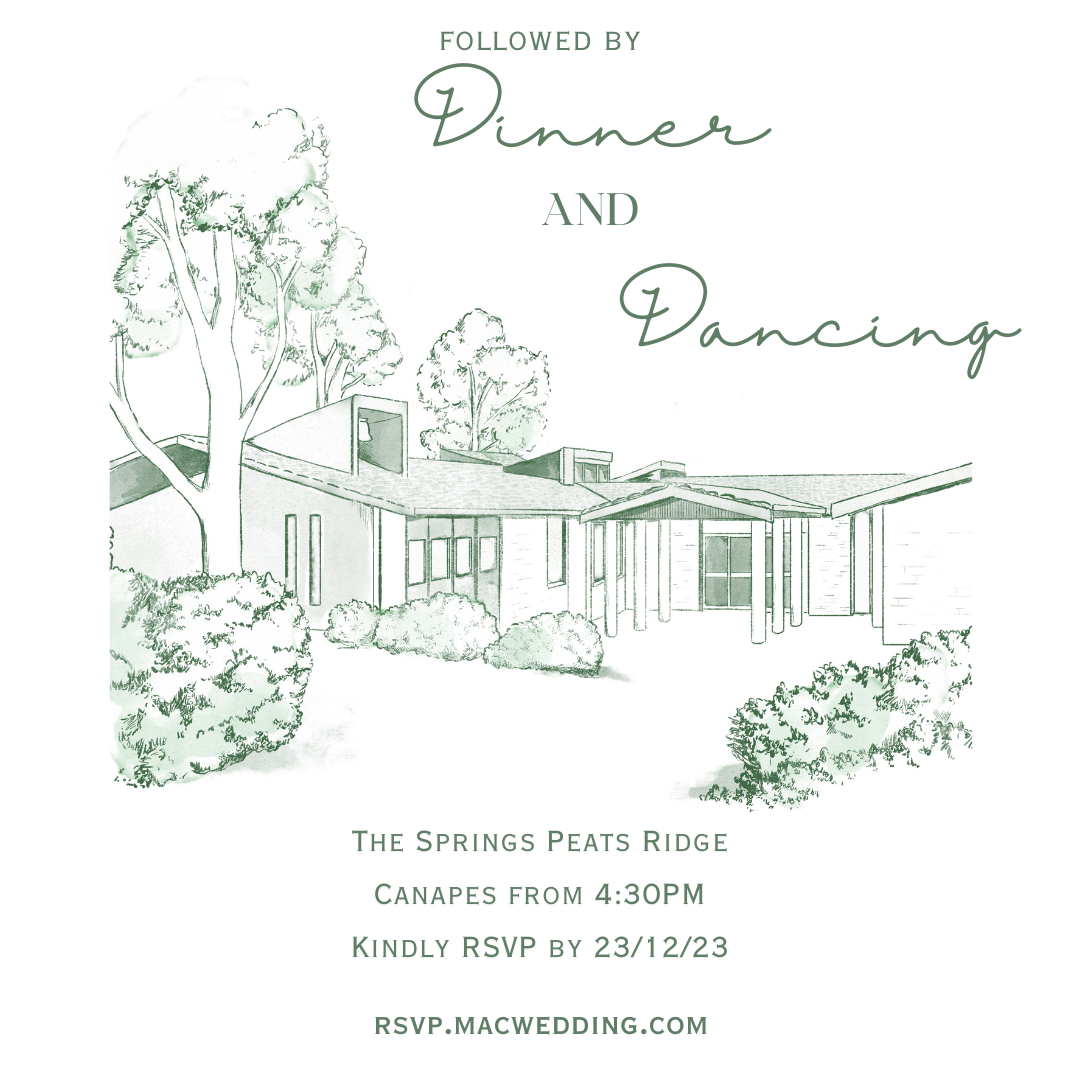
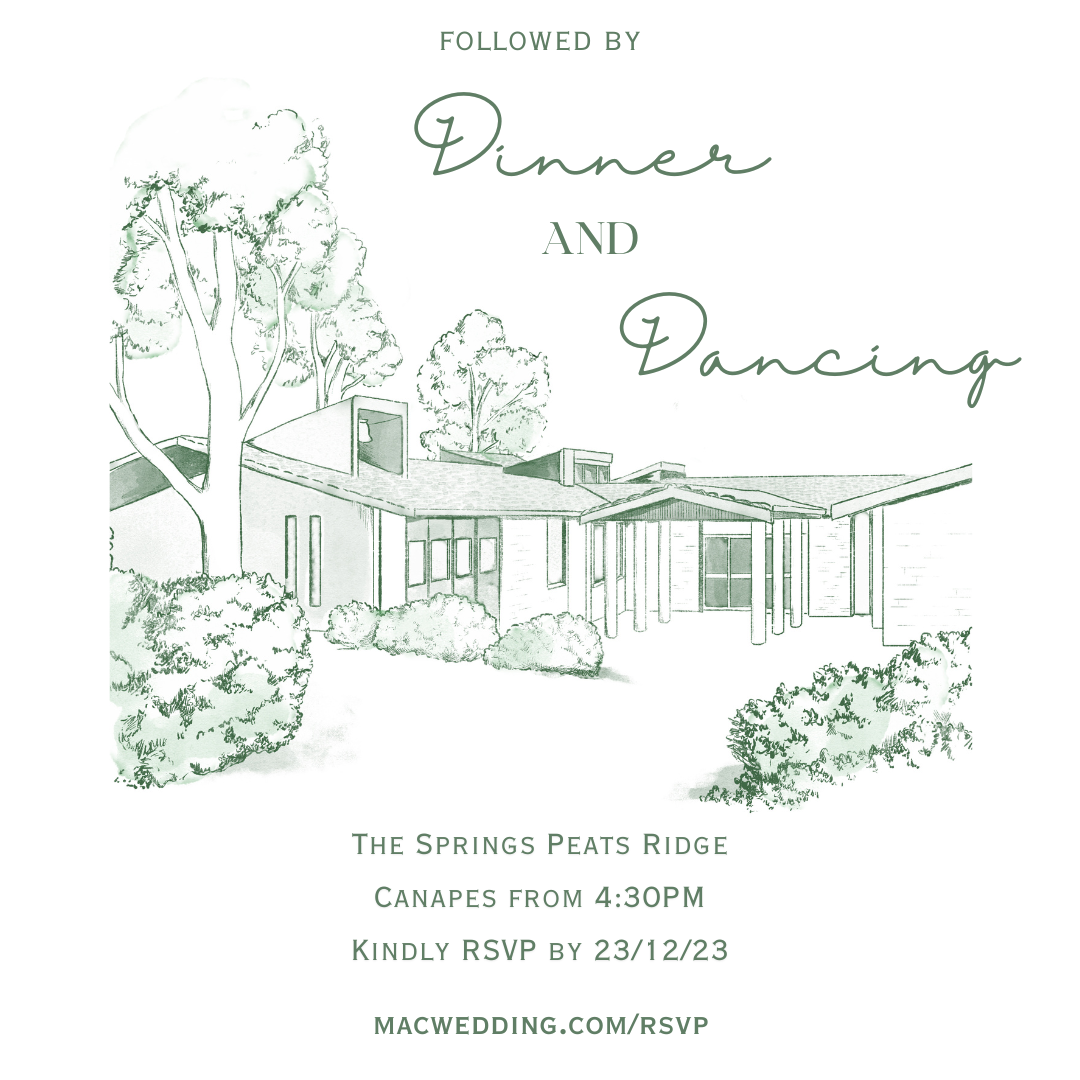
Minor adjustments

diff --git a/404.html b/404.html
@@ -5,6 +5,7 @@ permalink: /404.html
 ---
 
 <div class="text-center">
+  <br/>
   <h1>Whoops, this page doesn't exist.</h1>
   <br/>
 </div>

diff --git a/README.md b/README.md
@@ -1,237 +1,3 @@
-# Beautiful Jekyll
+# Wedding Website
 
-[![Gem Version](https://badge.fury.io/rb/beautiful-jekyll-theme.svg)](https://badge.fury.io/rb/beautiful-jekyll-theme)
-
-> By [Dean Attali](https://deanattali.com) &middot; [Demo](https://beautifuljekyll.com/)
-
-**Beautiful Jekyll** is a ready-to-use template to help you create a beautiful website quickly. Perfect for personal sites, blogs, or simple project websites.  [Check out a demo](https://beautifuljekyll.com) of what you'll get after just two minutes.  You can also look at [my personal website](https://deanattali.com) or [my consulting website](https://attalitech.com) to see it in use, or see [examples of websites](http://beautifuljekyll.com/examples) other people created using this theme.
-
-**If you enjoy Beautiful Jekyll, please consider [supporting me](https://github.com/sponsors/daattali). You'll also gain access to office hours and more features! ❤**
-
-## Table of contents
-
-- [Features](#features)
-- [Sponsors 🏆](#sponsors)
-- [**Build your website in 3 steps**](#build-your-website-in-3-steps)
-- [Plans](#plans)
-- [Add your own content](#add-your-own-content)
-- [Customizing parameters for each page](#customizing-parameters-for-each-page)
-- [Supported parameters](#supported-parameters)
-- [Featured users (success stories!)](#featured-users-success-stories)
-- [Next steps](#next-steps)
-- [Getting help](#getting-help)
-- [Credits and contributions](#contributions)
-
-# Features
-
-__Check out [*What's New?*](https://beautifuljekyll.com/updates/) to see the latest features!__
-
-- **SIMPLE**: The primary goal of Beautiful Jekyll is to allow literally *anyone* to create a website in a few minutes.
-- **Modern**: Uses the latest best practices and technologies to achieve nearly perfect scores on Google Chrome's Audit.
-- **Mobile-first**: Designed to look great on both large-screen and small-screen (mobile) devices.
-- **Highly customizable**: Many personalization settings such as changing the background colour/image, adding a logo.
-- **Flexible usage**: Use Beautiful Jekyll directly on GitHub or via a Ruby gem - choose the best [development method](#build-your-website-in-3-steps) for you.
-- **Battle-tested**: By using Beautiful Jekyll, you'll be joining 50,000+ users enjoying this theme since 2015.
-- **SEO and social media support**: Customize how your site looks on Google and when shared on social media.
-- **Comments support**: Add comments to any page using either [Disqus](https://disqus.com/), [Facebook comments](https://developers.facebook.com/docs/plugins/comments), [Utterances](https://utteranc.es/), [Staticman](https://staticman.net), [giscus](https://giscus.app), or [CommentBox](https://commentbox.io/).
-- **Tags**: Any blog post can be tagged with keywords, and an index page is automatically generated.
-- **Analytics**: Easily integrate Google Analytics, or other analytics platforms, to track visits to your website.
-- **Search**: Let users easily find any page using a Search button in the navigation bar.
-- **Photos support**: Any page can have a full-width cover photo and thumbnail.
-- **RSS**: An RSS feed is automatically created, so you can even host a podcast easily with Beautiful Jekyll.
-
-<h2 id="sponsors">Sponsors 🏆</h2>
-
-Developing and maintaining Beautiful Jekyll takes a lot of time and effort - thank you to anyone who helps fund this effort!
-
-- [DoFollow](https://dofollow.co.uk/)
-- [\_hyp3ri0n](https://hyperiongray.com)
-- [Varna Sri Raman](https://about.me/varna)
-
-**[Become a sponsor for Beautiful Jekyll and unlock new features\!](https://github.com/sponsors/daattali/sponsorships?tier_id=39856)**
-
-# Build your website in 3 steps
-
-There are a few different ways to build a website using Beautiful Jekyll, and this document will go through the simplest one: using a fork on GitHub. For most people (including myself!), this easy method is the recommended one.
-
-Even if you choose to use one of the [advanced installation methods](https://beautifuljekyll.com/getstarted/#install-steps-hard), I still suggest you read through the easy method first.
-
-## The easy way (recommended!)
-
-Getting started is *literally* as easy as 1-2-3 :smile:
-
-Scroll down to see the steps involved, but here is a 30-second video just as a reference as you work through the steps. If you don't already have a [GitHub account](https://github.com), you'll need to sign up.
-
-![Installation steps](https://beautifuljekyll.com/assets/img/install-steps.gif)
-
-### 1. Fork this project
-
-Click on the __*Fork*__ button at the top right corner of this page. Forking means that you're copying this entire project and all its files into your account. Do not click on the __*Create fork*__ button on the next page yet.
-
-### 2. Rename the repository to `YOURUSERNAME.github.io`
-
-You'll see the word "repository" used a lot in GitHub - it simply means "project". Under __*Repository name*__ you should see the name `beautiful-jekyll`, this is where you need to rename your project to `YOURUSERNAME.github.io` (replace `YOURUSERNAME` with your GitHub user name). It's important to use this exact name so that GitHub will recognize it and automatically create a website for this project.   
-
-> Tip: If you want to use a different URL for your website, check out the [FAQ](https://beautifuljekyll.com/faq/#custom-domain)
- 
-### 3. Customize your website settings
-
-Edit the `_config.yml` file to change any settings you want. To edit the file, first click on it to view the file, and on the next page click on the pencil icon to edit it (watch the video tutorial above if you're confused).  The settings in the file are self-explanatory and there are comments inside the file to help you understand what each setting does. Any line that begins with a hashtag (`#`) is a comment, and the other lines are actual settings. After changing the settings, click the green __*Commit changes*__ button to save these edits.
-
-> Note: In the video above, only one setting in the `_config.yml` file is edited, but you should go through the rest of the settings as well.
-
-### 4. Congratulations! You have a website!
-
-If you named your project correctly and made an edit to the config file, your website should be ready in a minute or two at `https://YOURUSERNAME.github.io`. Every time you make a change to any file, your website will get rebuilt and should be updated in about a minute or so. Your website will be initialized with several sample blog posts and a couple other pages.
-
-## The harder way (for advanced users)
-
-The instructions above explain how to use Beautiful Jekyll in the easiest way: by forking on GitHub. There are more [advanced installation methods](https://beautifuljekyll.com/getstarted/#install-steps-hard) that include either using GitHub Pages with remote themes, or using Ruby gems. They provide you with more control, but are only intended for advanced users.
-
-> Note: Beautiful Jekyll was primarily designed to be used as a GitHub theme, so you will not get any support if you use this theme via Ruby gems. 
-
-# Plans
-
-Beautiful Jekyll is, and always will be, free. But if you want to remove the Beautiful Jekyll ad from your website, use a Dark Mode skin, access office hours, or simply support the development efforts, [check out the different plans](https://beautifuljekyll.com/plans).
-
-# Add your own content
-
-To add pages to your site, you can either write a markdown file (`.md`) or you can write an HTML file. It's much easier to write markdown than HTML, so that's the recommended approach ([here's a great tutorial](https://markdowntutorial.com/) if you need to learn markdown in 5 minutes).
-
-To see an example of a markdown file, click on any file that ends in `.md`, for example [`aboutme.md`](./aboutme.md). On that page you can see some nicely formatted text (there's a word in bold, a link, a few bullet points), and if you click on the pencil icon to edit the file, you'll see the markdown code that generated the pretty text. Very easy! 
-
-In contrast, look at [`tags.html`](./tags.html). That's how your write HTML - not as pretty. So stick with markdown if you don't know HTML.
-
-Any markdown or HTML file that you create will be available on your website under `https://<yourusername>.github.io/<pagename>`. For example, if you create a file `about.md` (or `about.html`) then it'll exist at `https://<yourusername>.github.io/about`.
-
-Files you create inside the [`_posts`](./_posts) directory will be treated as blog entries. You can look at the existing files there to get an idea of how to write blog posts. Note the format of the blog post files - they must follow the naming convention of `YEAR-MONTH-DAY-title.md`. After you successfully add your own post, you can delete the existing files inside [`_posts`](./_posts) to remove the sample posts, as those are just demo posts to help you learn.
-
-# Customizing parameters for each page
-
-**One last important thing**: In order to have your new pages use this template and not just be plain HTML pages, **you must add [YAML front matter](https://jekyllrb.com/docs/front-matter/) to the top of each page**:
-
-
-```
----
----
-```
-
-This is where you'll be able to give each page some extra parameters (such as a title, a subtitle, an image, etc - [below is a list of all parameters](#supported-parameters)). Add any parameters you want between these two dashed lines, for example:
-
-```
----
-title: Contact me
-subtitle: Here you'll find all the ways to get in touch with me
----
-```
-
-If you don't want to use any parameters on a page, you still need to use the two dashed lines. If you don't, then your file will be shown as-is without the Beautiful Jekyll template.
-
-You can look at the top of [`aboutme.md`](https://raw.githubusercontent.com/daattali/beautiful-jekyll/master/aboutme.md) as an example.
-
-**Important takeaway: ALWAYS add the YAML front matter, which is two lines of three dashes, to EVERY page. If you have any parameters, they go between the two lines.**
-
-# Supported parameters
-
-Below is a list of the parameters that Beautiful Jekyll supports (any of these can be added to the YAML front matter of any page). Remember to also look in the `_config.yml` file to see additional site-wide settings.
-
-## Main parameters
-
-These are the basic YAML parameters that you are most likely to use on most pages.
-
-Parameter   | Description
------------ | -----------
-title       | Page or blog post title
-subtitle    | Short description of page or blog post that goes under the title
-tags        | List of tags to categorize the post. Separate the tags with commas and place them inside square brackets. Example: `[personal, analysis, finance]`
-cover-img   | Include a large full-width image at the top of the page. You can either provide the path to a single image (eg. `"/path/to/img"`) , or a list of images to cycle through (eg. `["/path/img1", "/path/img2"]`). If you want to add a caption to an image, then you must use the list notation (use `[]` even if you have only one image), and each image should be provided as `"/path/to/img" : "Caption of image"`.
-thumbnail-img | For blog posts, if you want to add a thumbnail that will show up in the feed, use `thumbnail-img: /path/to/image`. If no thumbnail is provided, then `cover-img` will be used as the thumbnail. You can use `thumbnail-img: ""` to disable a thumbnail.
-comments    | If you want do add comments to a specific page, use `comments: true`. Comments only work if you enable one of the comments providers (Facebook, disqus, staticman, utterances, giscus, CommentBox) in `_config.yml` file. Comments are automatically enabled on blog posts but not on other pages; to turn comments off for a specific post, use `comments: false`.
-
-## Parameters for SEO and social media sharing
-
-These parameters let you control what information shows up when a page is shown in a search engine (such as Google) or gets shared on social media (such as Twitter/Facebook).
-
-Parameter   | Description
------------ | -----------
-share-title | A title for the page. If not provided, then `title` will be used, and if that's missing then the site title (from `_config.yml`) is used.
-share-description | A brief description of the page. If not provided, then `subtitle` will be used, and if that's missing then an excerpt from the page content is used.
-share-img   | The image to show. If not provided, then `cover-img` or `thumbnail-img` will be used if one of them is provided.
-
-## Less commonly used parameters
-
-These are parameters that you may not use often, but can come in handy sometimes.
-
-Parameter   | Description
------------ | -----------
-author      | Specify the author of a blog post (useful if a website has multiple authors).
-readtime    | If you want a post to show how many minutes it will take to read it, use `readtime: true`.
-show-avatar | If you have an avatar configured in the `_config.yml` but you want to turn it off on a specific page, use `show-avatar: false`.
-social-share | By default, every blog post has buttons to share the page on social media. If you want to turn this feature off, use `social-share: false`.
-nav-short   | By default, the navigation bar gets shorter after scrolling down the page. If you want the navigation bar to always be short on a certain page, use `nav-short: true`
-gh-repo   | If you want to show GitHub buttons at the top of a post, this sets the GitHub repo name (eg. `daattali/beautiful-jekyll`). You must also use the `gh-badge` parameter to specify what buttons to show.
-gh-badge  | Select which GitHub buttons to display. Available options are: [star, watch, fork, follow]. You must also use the `gh-repo` parameter to specify the GitHub repo.
-last-updated | If you want to show that a blog post was updated after it was originally released, you can specify an "Updated on" date.
-layout      | What type of page this is (default is `post` for blog posts and `page` for other pages). See _Page types_ section below for more information.
-
-## Advanced parameters
-
-These are advanced parameters that are only useful for people who need very fine control over their website.
-
-Parameter   | Description
------------ | -----------
-footer-extra | If you want to include extra content below the social media icons in the footer, create an HTML file in the `_includes/` folder (for example `_includes/myinfo.html`) and set `footer-extra` to the name of the file (for example `footer-extra: myinfo.html`). Accepts a single file or a list of files.
-before-content | Similar to `footer-extra`, but used for including HTML before the main content of the page (below the title).
-after-content | Similar to `footer-extra`, but used for including HTML after the main content of the page (above the footer).
-head-extra   | Similar to `footer-extra`, but used if you have any HTML code that needs to be included in the `<head>` tag of the page.
-language    | HTML language code to be set on the page's &lt;html&gt; element.
-full-width  | By default, page content is constrained to a standard width. Use `full-width: true` to allow the content to span the entire width of the window.
-js          | List of local JavaScript files to include in the page (eg. `/assets/js/mypage.js`)
-ext-js      | List of external JavaScript files to include in the page (eg. `//cdnjs.cloudflare.com/ajax/libs/underscore.js/1.8.2/underscore-min.js`). External JavaScript files that support [Subresource Integrity (SRI)](https://developer.mozilla.org/en-US/docs/Web/Security/Subresource_Integrity) can be specified using the `href` and `sri` parameters eg.<br/>`href: "//code.jquery.com/jquery-3.1.1.min.js"`<br/>`sri: "sha256-hVVnYaiADRTO2PzUGmuLJr8BLUSjGIZsDYGmIJLv2b8="`
-css         | List of local CSS files to include in the page
-ext-css      | List of external CSS files to include in the page. External CSS files using SRI (see `ext-js` parameter) are also supported.
-
-## Page types
-
-- **post** - To write a blog post, add a markdown or HTML file in the `_posts` folder. As long as you give it YAML front matter (the two lines of three dashes), it will automatically be rendered like a blog post. Look at the existing blog post files to see examples of how to use YAML parameters in blog posts.
-- **page** - Any page outside the `_posts` folder that uses YAML front matter will have a very similar style to blog posts.
-- **home** - The home layout is meant to act as the homepage of your blog posts - it will display all your blog posts, sorted from newest to oldest. A file using the `home` layout must be named `index.html` (not `index.md` or anything else!).
-- **minimal** - If you want to create a page with minimal styling (ie. without the bulky navigation bar and footer), assign `layout: minimal` to the YAML front matter.
-- If you want to completely bypass the template engine and just write your own HTML page, simply omit the YAML front matter. Only do this if you know how to write HTML!
-
-# Featured users (success stories!)
-
-Visit the [Official website](http://beautifuljekyll.com/examples) to see sample websites using Beautiful Jekyll.
-
-If you'd like to showcase yourself and join this list, [upgrading to the Individual plan](https://github.com/sponsors/daattali/sponsorships?&tier_id=7362) will give you that publicity plus some other rewards!
-
-# Next steps
-
-Congratulations on making it this far! You now have all the tools to easily build a beautiful website for free. 
-
-- After you get comfortable with the basics of writing in markdown, I suggest taking a look at this [sample post](https://beautifuljekyll.com/2020-02-28-sample-markdown/) and [the code that created it](https://raw.githubusercontent.com/daattali/beautiful-jekyll/master/_posts/2020-02-28-sample-markdown.md) to learn some more advanced tips about markdown.
-
-- I highly recommend going over the [*Frequently Asked Questions*](https://beautifuljekyll.com/faq/) to find out answers to questions you may not even know you have. Every few months I suggest checking the [*What's New?*](https://beautifuljekyll.com/updates/) page to see if there are new features, and learn [how to update your site to the newest version](https://beautifuljekyll.com/faq/#updating) when it's time.
-
-- You can also check out the [advanced installation methods](https://beautifuljekyll.com/getstarted/#install-steps-hard) that give you a little more control but are harder to use. Keep in mind that Beautiful Jekyll was primarily designed to be used as a GitHub theme, so you will not get any support if you choose one of the Ruby installation methods. 
-
-# Getting help
-
-Visit the [FAQ page](https://beautifuljekyll.com/faq) for answers to commonly asked questions.
-
-**If you choose to [become a sponsor](https://beautifuljekyll.com/plans/), you'll have access to my [office hours](https://beautifuljekyll.com/officehours/) where you can ask for help.** You can also use the [Discussions](https://github.com/daattali/beautiful-jekyll/discussions) area to try and get help from the community.
-
-Beautiful Jekyll is used by 50,000+ people with wildly varying degrees of web skills, so it's impossible to answer all the questions that may arise. For any question that's not specifically related to Beautiful Jekyll and is more about Jekyll or web development in general, the answer can often be found on Google, in the [Jekyll documentation](https://jekyllrb.com/), or on the [Jekyll support forum](https://talk.jekyllrb.com/).
-
-# Contributions
-
-Thank you to [all past contributors](https://github.com/daattali/beautiful-jekyll/graphs/contributors). If you find any problems or would like to contribute in any way, feel free to create a pull request/open an issue/send me a message.
-
-You can also contribute by becoming an [official sponsor](https://github.com/sponsors/daattali/sponsorships?tier_id=39856) to help keep Beautiful Jekyll well-maintained!
-
-# Credits
-
-This template was not made *entirely* from scratch. I'd like to give special thanks to [Jekyll Now](https://github.com/barryclark/jekyll-now) and [Bootstrap Clean Blog](https://github.com/IronSummitMedia/startbootstrap-clean-blog), from whom I've taken several ideas initially.
-
-I'd also like to thank [Dr. Jekyll's Themes](https://drjekyllthemes.github.io/), [Jekyll Themes](http://jekyllthemes.org/), and another [Jekyll Themes](http://jekyllrc.github.io/jekyllthemes/) for featuring Beautiful Jekyll in their Jekyll theme directories.
-
+Welcome aboard to my custom hot mess
